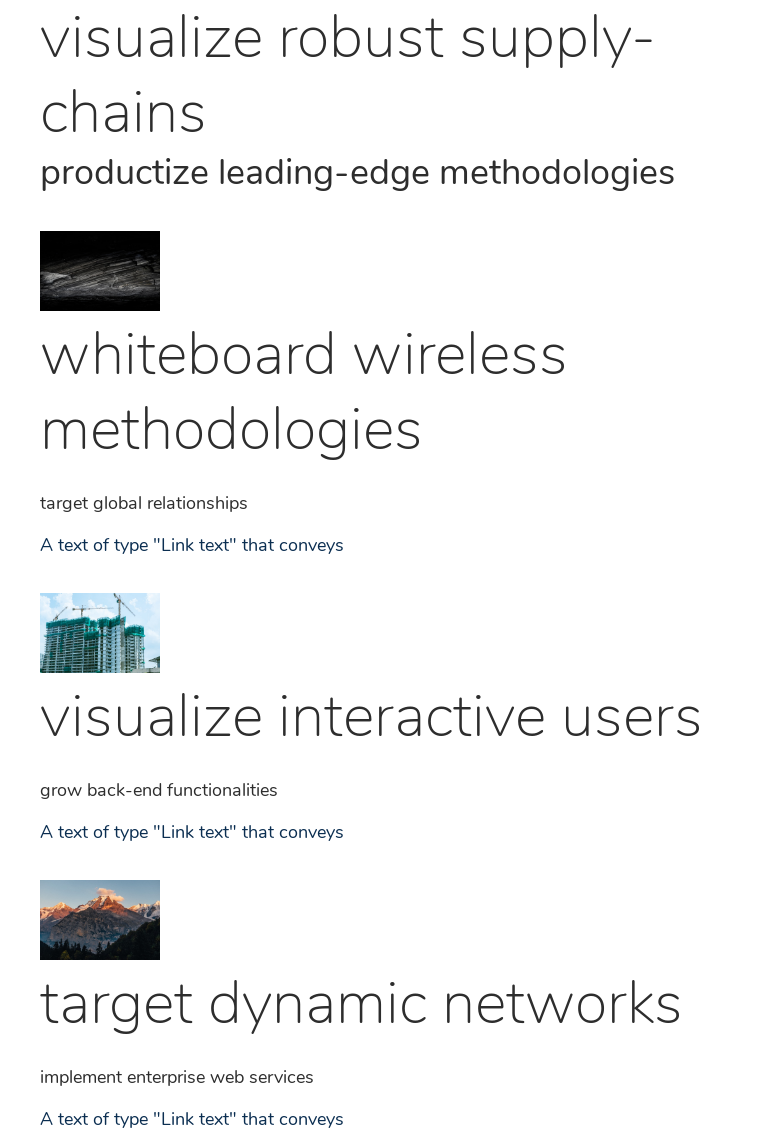
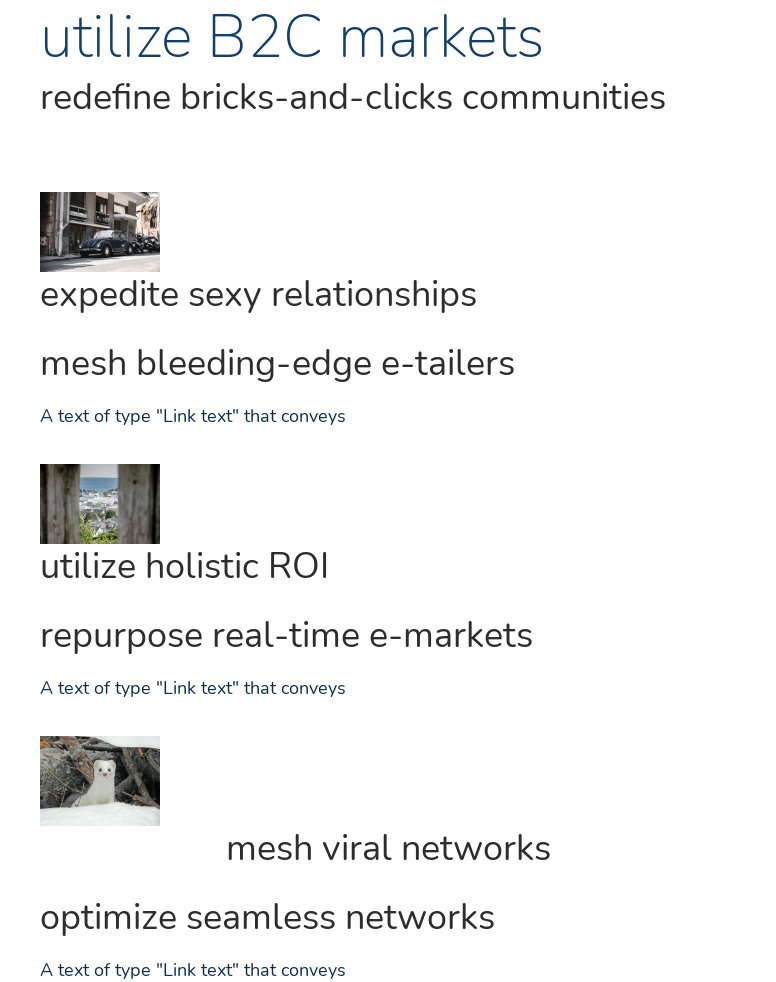
Adds center title options, title image, etc options to PitchCards

Changed region(s): [[0.0309, 0.0, 0.866, 1.0], [0.7423, 0.611, 0.8969, 0.6721]]

diff --git a/slices/PitchCards/index.js b/slices/PitchCards/index.js
@@ -1,4 +1,5 @@
 import React from "react"
+import { Flex, Box } from "@rent_avail/layout"
 import { PitchCards } from "components/core/PitchCards"
 import Anchor from "components/prismic/Anchor"
 import RichText from "components/prismic/RichText"
@@ -6,34 +7,81 @@ import { availContainerWidth } from "lib/config"
 
 const PitchCardsSlice = ({ slice }) => {
   const {
-    primary: { title, description, hash },
+    primary: { title, titleImage, centerTitle, description, hash },
   } = slice
 
   const sections = slice.items.map(
-    // eslint-disable-next-line no-shadow
-    ({ title, description, icon, linkText, linkUrl }, idx) => ({
-      title: <RichText render={title} heading mb="2rem" />,
-      description: <RichText render={description} />,
-      icon: icon.url,
-      key: (title[0] && title[0].text) || idx,
-      link:
-        linkText && linkUrl
-          ? {
-              text: linkText,
-              url: linkUrl && linkUrl.url,
-            }
-          : null,
-    })
+    (
+      {
+        title, // eslint-disable-line no-shadow
+        centerTitle, // eslint-disable-line no-shadow
+        description, // eslint-disable-line no-shadow
+        icon,
+        linkText,
+        linkUrl,
+        linkAsButton,
+      },
+      idx
+    ) => {
+      return {
+        title: (
+          <RichText
+            textAlign={centerTitle ? "center" : "inherit"}
+            render={title}
+            heading
+            mb="2rem"
+          />
+        ),
+        description: <RichText render={description} />,
+        icon,
+        key: (title[0] && title[0].text) || idx,
+        link:
+          linkText && linkUrl
+            ? {
+                text: linkText,
+                url: linkUrl && linkUrl.url,
+                target:
+                  linkUrl &&
+                  (linkUrl.target ||
+                    (linkUrl.link_type === "Media" && "_blank")),
+                button: linkAsButton,
+              }
+            : null,
+      }
+    }
+  )
+  const titleText = (
+    <RichText
+      color="blue_500"
+      textAlign={centerTitle ? "center" : "inherit"}
+      render={title}
+      heading
+    />
+  )
+  const titleWithImage = titleImage && (
+    <Flex
+      justifyContent={centerTitle ? "center" : "flex-start"}
+      alignItems="flex-end"
+    >
+      <RichText color="blue_500" render={title} heading />
+      <Box
+        as="img"
+        src={titleImage.url}
+        alt={titleImage.alt}
+        ml="1rem"
+        sx={{ transform: "translateY(-10%)" }}
+      />
+    </Flex>
   )
   return (
     <React.Fragment>
       {hash && <Anchor hash={hash} />}
       <PitchCards
-        title={<RichText render={title} heading />}
+        title={titleWithImage || titleText}
         description={<RichText render={description} />}
         sections={sections}
         maxWidth={availContainerWidth}
-        my="6rem"
+        m="6rem 0 12rem"
         span={[12, 12, 6, 4]}
       />
     </React.Fragment>

diff --git a/components/core/PitchCards/index.js b/components/core/PitchCards/index.js
@@ -1,6 +1,7 @@
 import * as React from "react"
-import { Container, Grid, Col, Box } from "@rent_avail/layout"
+import { Container, Grid, Col, Box, Flex } from "@rent_avail/layout"
 import { Text } from "@rent_avail/typography"
+import { Button } from "@rent_avail/controls"
 import Link from "next/link"
 
 function PitchCards({ span, sections, title, description, eyebrow, ...props }) {
@@ -10,7 +11,7 @@ function PitchCards({ span, sections, title, description, eyebrow, ...props }) {
   return (
     <Container {...props} as={Grid} gap={["3rem 0", "3rem"]}>
       {headingContent && (
-        <Col span={12}>
+        <Col span={12} mb="3rem">
           {eyebrow && (
             <Text fontSize="small" mb="1rem" color="blue_300">
               {eyebrow}
@@ -38,23 +39,40 @@ function PitchCards({ span, sections, title, description, eyebrow, ...props }) {
 function PitchCard({
   title = "",
   description = "",
-  icon = "",
+  icon = null,
   link,
   ...props
 }) {
   return (
-    <Col {...props}>
-      {icon && <Box as="img" src={icon} width="10rem" />}
+    <Col {...props} display="flex" flexDirection="column">
+      {icon && <Box as="img" src={icon.url} alt={icon.alt} width="10rem" />}
       {title && title}
-      {description && description}
-      {link && (
-        <Box mt="1.5rem">
-          <Link href={link.url} passHref>
-            <Text as="a" color="blue_700">
-              {link.text}
-            </Text>
-          </Link>
+      {description && (
+        <Box flex={link && link.button ? "1 1 auto" : "initial"}>
+          {description}
         </Box>
+      )}
+      {link && (
+        <Flex
+          mt="1.5rem"
+          justifyContent={link.button ? "center" : "flex-start"}
+        >
+          <Link href={link.url} passHref>
+            {link.button ? (
+              <Button as="a" {...(link.target && { target: link.target })}>
+                {link.text}
+              </Button>
+            ) : (
+              <Text
+                as="a"
+                {...(link.target && { target: link.target })}
+                color="blue_700"
+              >
+                {link.text}
+              </Text>
+            )}
+          </Link>
+        </Flex>
       )}
     </Col>
   )

diff --git a/components/core/PitchCards/pitch-cards.stories.js b/components/core/PitchCards/pitch-cards.stories.js
@@ -6,32 +6,48 @@ export default { title: "Components/Pitch Cards" }
 
 const sections = [
   {
-    title: "Great for any situation.",
+    title: (
+      <Heading as="h5" mb="2rem">
+        Great for any situation.
+      </Heading>
+    ),
     description:
       "Lorem ipsum dolor, sit amet consectetur adipisicing elit. Aperiam ipsum natus velit explicabo eligendi.",
   },
   {
-    title: "Automatically Mobile Friendly.",
+    title: (
+      <Heading as="h5" mb="2rem">
+        Automatically Mobile Friendly.
+      </Heading>
+    ),
     description:
       "Lorem ipsum dolor, sit amet consectetur adipisicing elit. Aperiam minima quia placeat laudantium debitis ipsum.",
   },
   {
-    title: "Customize how you see fit.",
+    title: (
+      <Heading as="h5" mb="2rem">
+        Customize how you see fit.
+      </Heading>
+    ),
     description:
       "Lorem ipsum dolor, sit amet consectetur adipisicing elit. Aperiam minima quia placeat laudantium .",
   },
   {
-    title: "Lets you focus on the story.",
+    title: (
+      <Heading as="h5" mb="2rem">
+        Lets you focus on the story.
+      </Heading>
+    ),
     description:
       "Lorem ipsum dolor, sit amet consectetur adipisicing elit. Explicabo eligendi tenetur sed quo.",
   },
 ]
 
 const icons = [
-  "/send-money.png",
-  "/state-specific.png",
-  "/user-card.png",
-  "/property-damage.png",
+  { url: "/send-money.png", alt: "" },
+  { url: "/state-specific.png", alt: "" },
+  { url: "/user-card.png", alt: "" },
+  { url: "/property-damage.png", alt: "" },
 ]
 
 const iconSections = sections.map((section, idx) => ({

diff --git a/components/prismic/SliceZone/index.js b/components/prismic/SliceZone/index.js
@@ -9,8 +9,8 @@ const SliceZone = ({ slices }) => {
     return null
   }
   const { colors } = useTheme()
-  return slices.map((slice) => {
-    const key = `${slice.slice_type}-${slice.version}`
+  return slices.map((slice, idx) => {
+    const key = `${slice.slice_type}-${slice.version}-${idx}`
     switch (slice.slice_type) {
       case "hero_unit":
         return <HeroUnit key={key} slice={slice} />
